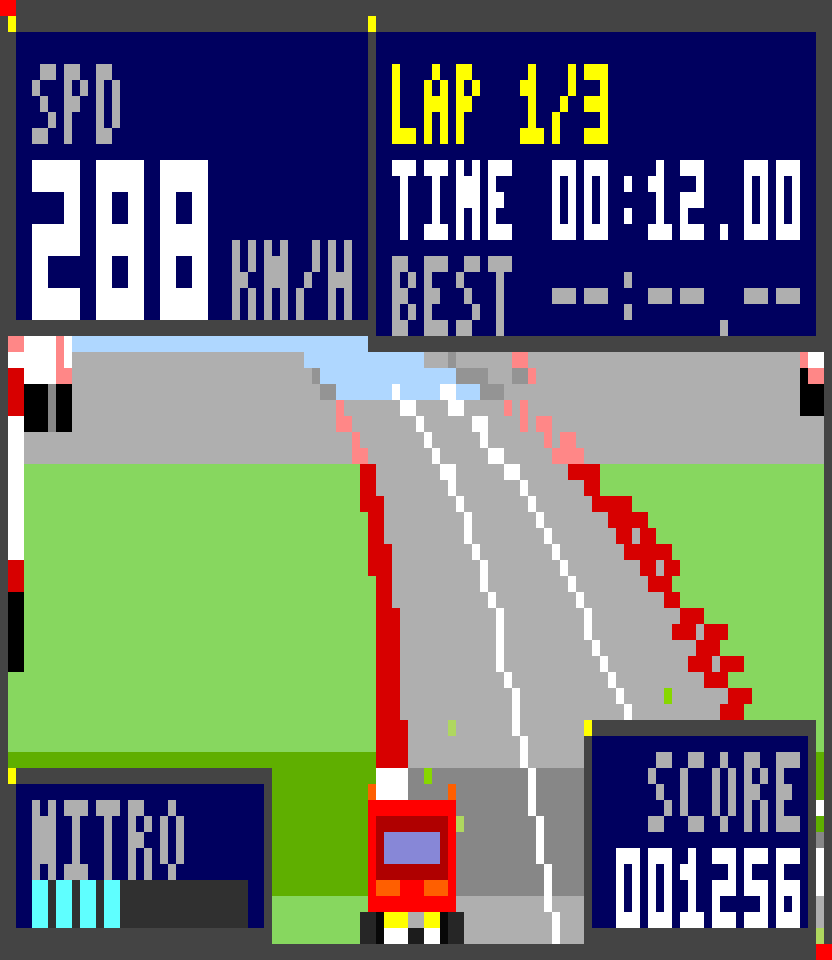
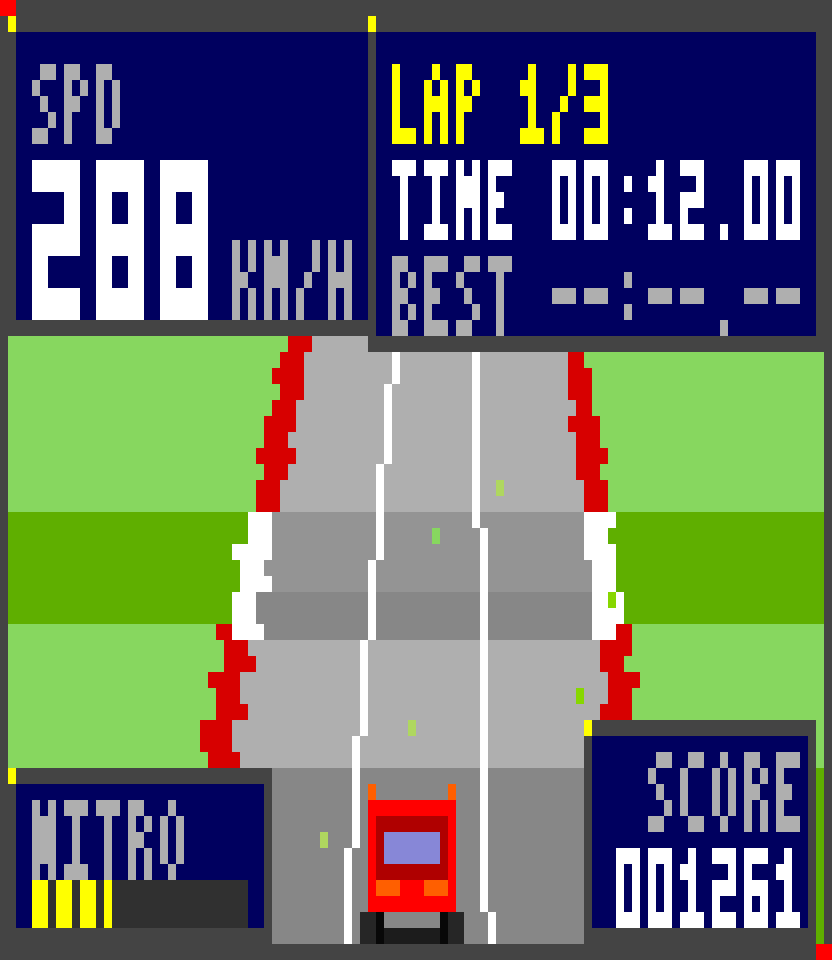
Make the car's speed track the model's token throughput
The panel is now a live throughput meter: the autopilot's speed ceiling is
the measured token rate (60 tok/s = full speed, 10% idle floor), eased into
with engine braking instead of a hard clamp, so a slowing stream slows the
car smoothly and a stalled one brings it back to a creep.

- game.ts: tokenDrive field, speedLimit() replaces maxSpeed(), engine
  braking to the ceiling, TOKENS_AT_FULL_SPEED / IDLE_DRIVE constants
- runtime.ts: 250ms sliding-window token rate with half-life smoothing,
  applied to the world every tick; status line now reports tok/s
- index.ts: message_update counts text/thinking/toolcall deltas as tokens
- Manual fullscreen driving keeps the full arcade range so the game stays
  playable while the agent is idle
- selftest: 4 new checks (mapping, stall decel, manual range, live rate);
  38 total. Frames render with a simulated stream so the car is moving.

diff --git a/scripts/selftest.ts b/scripts/selftest.ts
@@ -12,7 +12,7 @@ import { RallyRuntime } from "../src/runtime.ts";
 import { RallyPanel } from "../src/panel.ts";
 import { RallyGame } from "../src/play.ts";
 import { visibleWidthOf } from "../src/blit.ts";
-import { RallyWorld } from "../src/game.ts";
+import { MAX_SPEED, RallyWorld } from "../src/game.ts";
 import { buildThemeRuntime, THEMES } from "../src/palette.ts";
 import { buildSpriteBank } from "../src/sprites.ts";
 import { buildTrack } from "../src/track.ts";
@@ -32,12 +32,26 @@ function check(name: string, fn: () => void): void {
   }
 }
 
+async function checkAsync(name: string, fn: () => Promise<void>): Promise<void> {
+  try {
+    await fn();
+    passed++;
+    console.log(`  ok  ${name}`);
+  } catch (error) {
+    console.error(`FAIL  ${name}`);
+    console.error(error);
+    process.exitCode = 1;
+  }
+}
+
 const delay = (ms: number) => new Promise<void>((resolve) => setTimeout(resolve, ms));
 
 async function main(): Promise<void> {
   console.log("rally selftest\n");
 
   const runtime = new RallyRuntime({ theme: "day", totalLaps: 3 });
+  // Stand in for a live token stream (see the token-drive checks below).
+  runtime.world.tokenDrive = 0.9;
 
   check("world starts on lap 1 with a full tank", () => {
     assert.equal(runtime.world.lap, 1);
@@ -219,7 +233,7 @@ async function main(): Promise<void> {
 
   check("status line reports the race", () => {
     const status = runtime.statusLine();
-    assert.match(status, /RALLY \d+km\/h · LAP \d+\/\d+ · SCORE \d+/);
+    assert.match(status, /RALLY \d+km\/h · \d+tok\/s · LAP \d+\/\d+ · SCORE \d+/);
   });
 
   /* ---------------------------- fullscreen ---------------------------- */
@@ -355,6 +369,7 @@ async function main(): Promise<void> {
       billboards: sprites.billboards,
     });
     const world = new RallyWorld(track, sprites, { auto: false, trafficCount: 0 });
+    world.tokenDrive = 0.9;
     world.input.throttle = 1;
     for (let i = 0; i < 180; i++) world.update(1 / 60);
     const onRoad = world.speed;
@@ -366,6 +381,41 @@ async function main(): Promise<void> {
     // ...and the traction assist brings it back on its own.
     for (let i = 0; i < 180; i++) world.update(1 / 60);
     assert.equal(world.offRoad, false, "traction assist did not recover");
+  });
+
+  check("token throughput maps onto the speed ceiling", () => {
+    const world = runtime.world;
+    world.nitroTimer = 0;
+    world.offRoad = false;
+    world.tokenDrive = 0;
+    assert.ok(world.speedLimit() <= MAX_SPEED * 0.1001, `idle ceiling: ${world.speedLimit()}`);
+    world.tokenDrive = 0.5;
+    assert.ok(Math.abs(world.speedLimit() - MAX_SPEED * 0.5) < 1, `half: ${world.speedLimit()}`);
+    world.tokenDrive = 1;
+    assert.ok(Math.abs(world.speedLimit() - MAX_SPEED) < 1, `full: ${world.speedLimit()}`);
+    world.tokenDrive = 0.9;
+  });
+
+  check("manual driving keeps the full arcade speed range", () => {
+    const world = runtime.world;
+    world.auto = false;
+    world.tokenDrive = 0;
+    world.nitroTimer = 0;
+    world.offRoad = false;
+    assert.ok(world.speedLimit() >= MAX_SPEED, "manual ceiling is full speed");
+    world.auto = true;
+    world.tokenDrive = 0.9;
+  });
+
+  check("a stalled stream slows the car down", () => {
+    const world = runtime.world;
+    world.tokenDrive = 1;
+    world.nitroTimer = 0;
+    world.speed = MAX_SPEED;
+    world.tokenDrive = 0;
+    for (let i = 0; i < 90; i++) world.update(1 / 60);
+    assert.ok(world.speedKmh < 60, `car still fast: ${world.speedKmh} km/h`);
+    assert.ok(world.speed > 0, "car keeps creeping instead of stopping dead");
   });
 
   check("lane markings run the whole length of the road", () => {
@@ -418,6 +468,27 @@ async function main(): Promise<void> {
       assert.ok(counts[band]! > 0, `no lane markings in band ${band} (near->far): ${counts.join(",")}`);
     }
   });
+  await checkAsync("streaming tokens raise the measured rate and the car's ceiling", async () => {
+    const live = new RallyRuntime({ theme: "day" });
+    live.start();
+    try {
+      // ~120 tokens/sec for a second.
+      for (let i = 0; i < 10; i++) {
+        live.onTokens(12);
+        await delay(100);
+      }
+      assert.ok(live.tokenRate > 40, `measured rate: ${live.tokenRate.toFixed(1)} tok/s`);
+      assert.ok(live.world.tokenDrive > 0.6, `drive: ${live.world.tokenDrive.toFixed(2)}`);
+
+      // Stop streaming: the rate decays and the car is allowed to slow down.
+      await delay(1300);
+      assert.ok(live.tokenRate < 10, `rate after the stream stopped: ${live.tokenRate.toFixed(1)}`);
+      assert.ok(live.world.tokenDrive < 0.2, `drive after the stream stopped: ${live.world.tokenDrive.toFixed(2)}`);
+    } finally {
+      live.stop();
+    }
+  });
+
   console.log(`\n${passed} checks passed${process.exitCode ? " (with failures)" : ""}`);
 }
 void main();

diff --git a/src/game.ts b/src/game.ts
@@ -14,6 +14,10 @@ const BRAKING = -MAX_SPEED;
 const COAST_DECEL = -MAX_SPEED / 7;
 const OFF_ROAD_DECEL = -MAX_SPEED / 1.4;
 const OFF_ROAD_LIMIT = MAX_SPEED / 3.4;
+/** Token throughput (tokens/sec) that maps to full speed. */
+export const TOKENS_AT_FULL_SPEED = 60;
+/** Creep speed while nothing is being generated, so the car never looks dead. */
+export const IDLE_DRIVE = 0.1;
 const CENTRIFUGAL = 0.22;
 const NITRO_MULTIPLIER = 1.34;
 const NITRO_DRAIN = 0.25; // bar per second
@@ -107,6 +111,11 @@ export class RallyWorld {
   offRoad = false;
   skyOffset = 0;
   clock = 0;
+  /**
+   * 0..1 share of full speed the current token throughput allows. This is what
+   * makes the panel a live throughput meter: fast streaming = fast car.
+   */
+  tokenDrive = 0;
   auto: boolean;
   finished = false;
   stats: RallyStats = emptyStats();
@@ -204,15 +213,24 @@ export class RallyWorld {
     this.stats.codeBoosts += amount;
     this.stats.score += 25 * amount;
     this.addNitro(0.05 * amount);
-    this.speed = Math.min(this.maxSpeed(), this.speed + MAX_SPEED * 0.05 * amount);
+    this.speed = Math.min(this.speedLimit(), this.speed + MAX_SPEED * 0.05 * amount);
     if (this.nitro > 0.3 && this.crashTimer <= 0) this.nitroTimer = Math.max(this.nitroTimer, 0.55);
   }
 
-  maxSpeed(): number {
-    let max = MAX_SPEED;
-    if (this.nitroTimer > 0) max *= NITRO_MULTIPLIER;
-    if (this.offRoad) max = Math.min(max, OFF_ROAD_LIMIT * (this.nitroTimer > 0 ? 1.25 : 1));
-    return max;
+  /**
+   * Speed ceiling for this frame. In autopilot (the spectator panel) it is the
+   * token throughput times the nitro bonus, capped off-road — that is what
+   * makes the panel a live throughput meter. A human driver gets the full
+   * arcade range instead, so the game stays playable while the agent is idle.
+   * Either way the car engine-brakes down to the ceiling rather than being
+   * clamped, so a slowing stream slows the car smoothly.
+   */
+  speedLimit(): number {
+    const drive = this.auto ? Math.max(IDLE_DRIVE, Math.min(1, this.tokenDrive)) : 1;
+    let limit = MAX_SPEED * drive;
+    if (this.nitroTimer > 0) limit *= NITRO_MULTIPLIER;
+    if (this.offRoad) limit = Math.min(limit, OFF_ROAD_LIMIT * (this.nitroTimer > 0 ? 1.25 : 1));
+    return limit;
   }
 
   get speedKmh(): number {
@@ -271,7 +289,11 @@ export class RallyWorld {
     } else {
       this.shake = Math.max(0, this.shake - dt * 3);
     }
-    this.speed = Math.min(this.speed, this.maxSpeed());
+    // Token-speed limiter: ease down to the ceiling rather than snapping to it.
+    const limit = this.speedLimit();
+    if (this.speed > limit) {
+      this.speed = Math.max(limit, this.speed - MAX_SPEED * 1.1 * dt);
+    }
 
     // Nitro.
     if (this.nitroTimer > 0) {

diff --git a/src/runtime.ts b/src/runtime.ts
@@ -10,7 +10,7 @@ import { Framebuffer } from "./fb.ts";
 import { buildThemeRuntime, THEMES, type Theme, type ThemeRuntime } from "./palette.ts";
 import { buildSpriteBank, type SpriteBank } from "./sprites.ts";
 import { buildTrack, type Track } from "./track.ts";
-import { RallyWorld, type SaveState } from "./game.ts";
+import { RallyWorld, TOKENS_AT_FULL_SPEED, type SaveState } from "./game.ts";
 import { renderScene } from "./scene.ts";
 import { framebufferToLines } from "./blit.ts";
 
@@ -70,6 +70,8 @@ export class RallyRuntime {
       const now = Date.now();
       const dt = Math.min(0.12, (now - this.lastTick) / 1000);
       this.lastTick = now;
+      this.updateTokenRate(now);
+      this.applyTokenDrive();
       if (!this.paused) this.world.update(dt);
       this.version++;
       for (const listener of this.listeners) listener(this);
@@ -144,6 +146,37 @@ export class RallyRuntime {
     this.world.shake = 1;
   }
 
+  /* ------------------------- token throughput ------------------------- */
+
+  /**
+   * Smoothed token rate in tokens/second, measured over a short sliding window
+   * so the car tracks the stream without jittering on every chunk.
+   */
+  tokenRate = 0;
+  private windowTokens = 0;
+  private windowStart = Date.now();
+
+  /** Report generated tokens (text, thinking and tool-call deltas). */
+  onTokens(count: number): void {
+    if (count <= 0) return;
+    this.windowTokens += count;
+  }
+
+  private updateTokenRate(now: number): void {
+    const elapsed = (now - this.windowStart) / 1000;
+    if (elapsed < 0.25) return;
+    const instant = this.windowTokens / elapsed;
+    // Half-and-half smoothing: responsive, but not a jitter per chunk.
+    this.tokenRate = this.tokenRate * 0.5 + instant * 0.5;
+    this.windowTokens = 0;
+    this.windowStart = now;
+  }
+
+  /** Map the measured token rate onto the car's allowed share of full speed. */
+  private applyTokenDrive(): void {
+    this.world.tokenDrive = Math.min(1, this.tokenRate / TOKENS_AT_FULL_SPEED);
+  }
+
   /* ---------------------------- rendering ---------------------------- */
 
   /** Render one frame into a framebuffer of the requested pixel size. */
@@ -177,6 +210,7 @@ export class RallyRuntime {
   statusLine(): string {
     const world = this.world;
     const lap = `${Math.min(world.lap, world.totalLaps)}/${world.totalLaps}`;
-    return `RALLY ${world.speedKmh}km/h · LAP ${lap} · SCORE ${Math.floor(world.stats.score)}`;
+    const tokens = `${Math.round(this.tokenRate)}tok/s`;
+    return `RALLY ${world.speedKmh}km/h · ${tokens} · LAP ${lap} · SCORE ${Math.floor(world.stats.score)}`;
   }
 }

diff --git a/src/index.ts b/src/index.ts
@@ -29,7 +29,6 @@ let rpcPanelOn = false;
 let rpcTickOff: (() => void) | null = null;
 let lastSave = 0;
 let statusThrottle = 0;
-let tokenCounter = 0;
 
 function isTui(ctx: ExtensionContext): boolean {
   return ctx.mode === "tui";
@@ -193,10 +192,18 @@ export default function (pi: ExtensionAPI) {
     else runtime.codeBoost(1);
   });
 
-  pi.on("message_update", () => {
+  pi.on("message_update", (event) => {
     if (!runtime) return;
-    // Throttle token-level updates into small nitro drips.
-    if (++tokenCounter % 24 === 0) runtime.addNitro(0.006);
+    // Token throughput drives the car's speed: one streamed chunk is roughly
+    // one token, so count the deltas (text, thinking and tool calls).
+    const stream = event.assistantMessageEvent;
+    if (
+      stream &&
+      (stream.type === "text_delta" || stream.type === "thinking_delta" || stream.type === "toolcall_delta") &&
+      typeof stream.delta === "string"
+    ) {
+      runtime.onTokens(Math.max(1, Math.round(stream.delta.length / 3)));
+    }
   });
 
   pi.on("input", (event) => {

diff --git a/scripts/render-frames.ts b/scripts/render-frames.ts
@@ -138,6 +138,8 @@ function makeRig(themeName: keyof typeof THEMES, width: number, height: number, 
     billboards: sprites.billboards,
   });
   const world = new RallyWorld(track, sprites, { auto: true, totalLaps: 3 });
+  // Stand in for a live token stream so the frames show a moving car.
+  world.tokenDrive = 0.92;
   const config: SceneConfig = { width, height, hud, runtime, sprites, track };
   return { runtime, config, world };
 }

diff --git a/README.en.md b/README.en.md
@@ -22,7 +22,7 @@ It is **off by default**. Run `/rally on` and a racing panel appears on the righ
 
 - **Opt-in floating panel.** `/rally on` drops a racing panel on the right edge of the terminal. It does not steal keyboard focus, so the editor stays yours — the race just runs beside your code. `/rally off` closes it.
 - **45° top-down pixel art.** The camera looks down at the track at 45°, so the whole frame is road and scenery — the RC Pro-Am / Micro Machines angle. Curves, crests and dips come from a real segment projection, rasterised into a palette framebuffer and drawn with Unicode half-blocks so every pixel stays square.
-- **Code is fuel.** Tool calls, streamed tokens and your prompts add nitro and score while the panel is open — it doubles as a "how much work is happening" meter.
+- **Code speed is car speed.** In the panel the car's speed *is* the model's token generation rate: 60 tok/s is full speed, a fast stream makes a fast car, and a stalled stream eases it down to an idle creep — so it doubles as a live throughput meter. Tool calls and your prompts add nitro and score on top.
 - **Driver assist.** A traction correction blends a corrective steer in past the shoulder margin — it never fights your steering, but it will not let the car stay out on the grass, whether you are driving or the autopilot is. There is also an adaptive cruise that matches the speed of the car in front instead of rear-ending it, and crashes can no longer kick the car off the road.
 - **One race, two views.** `/rally` takes the wheel fullscreen (the panel hides itself and comes back after); leaving hands the car back to the autopilot.
 - **Session persistence.** Lap times, best lap, score, distance and position are saved into the session (like the built-in Snake example), so `/new` or `/resume` picks the race back up.
@@ -106,17 +106,28 @@ widget lines instead — handy for IDE clients that embed the agent.
 | Tool call starts | +nitro |
 | Tool result (success) | +score, +nitro, speed kick |
 | Tool result (error) | nitro burn cancelled, car shaken |
-| Streamed tokens (throttled) | small nitro drips |
+| Streamed tokens (text/thinking/tool-call deltas) | **sets the car's speed** (60 tok/s = full speed) |
 | You send a prompt | bigger boost |
 
-Overtaking traffic, clean laps and drifting through curves refill the bar too — errors cost you the burn.
+Mapping: `tokenRate / 60` clamped to 0..1 is the share of full speed allowed, with a 10% idle floor (~32 km/h) so the car creeps rather than stopping when nothing is being generated. The rate is measured over a 250ms sliding window with half-life smoothing, so it does not jitter per chunk. Nitro multiplies 1.34x on top of the token ceiling.
+
+Manual fullscreen driving is not limited by the token rate (otherwise the game would barely move while the agent is idle) — it keeps the full arcade speed range.
+
+Measured curve from one real agent turn (the model thinks first, then streams; `step --mode rpc`):
+
+| t | speed | state |
+|---|---|---|
+| 5s | 32 km/h | thinking, no tokens — idle creep |
+| 15s | 156 km/h | stream ramps up, smooth acceleration |
+| 25s | 301 km/h | full stream rate |
+| 30s | 274 km/h | stream finished, easing down |
 
 ## Development
 
 ```bash
 npm install
 npm run typecheck   # tsc --noEmit
-npm test            # 34 checks: physics, laps, persistence, panel/game rendering, assists, lane markings
+npm test            # 38 checks: physics, laps, persistence, panel/game rendering, assists, lane markings, token speed
 npm run frames      # render QA frames to frames/*.png
 npm run sim         # second-by-second simulation trace (tuning)
 npm run sim:offroad # off-road share + crash count over several random tracks
